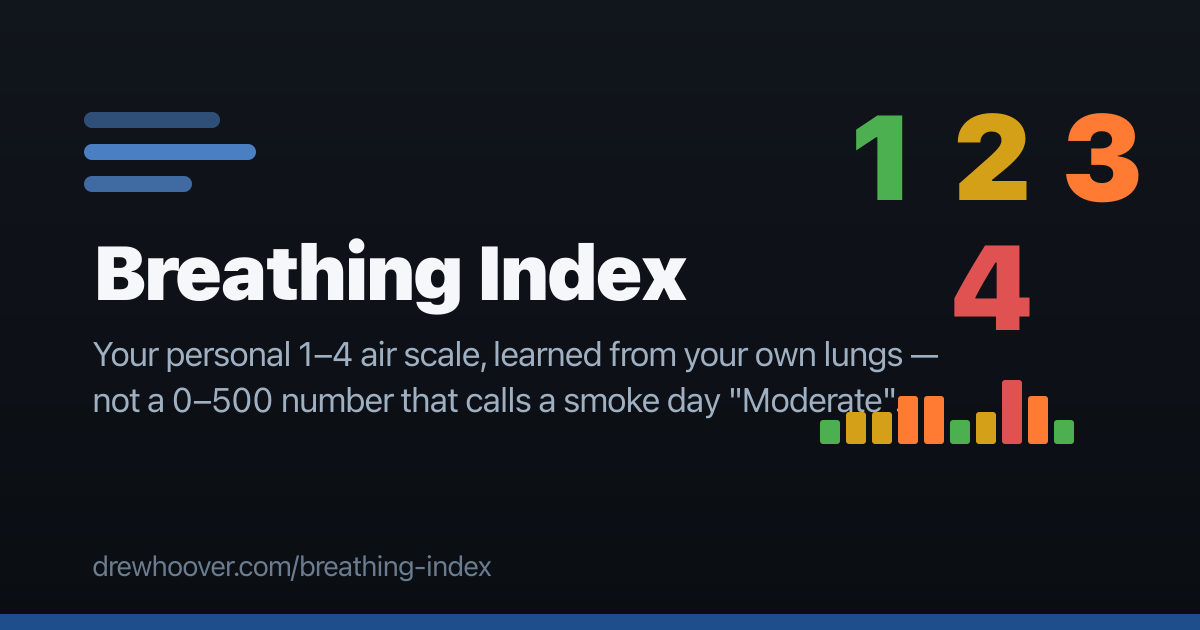
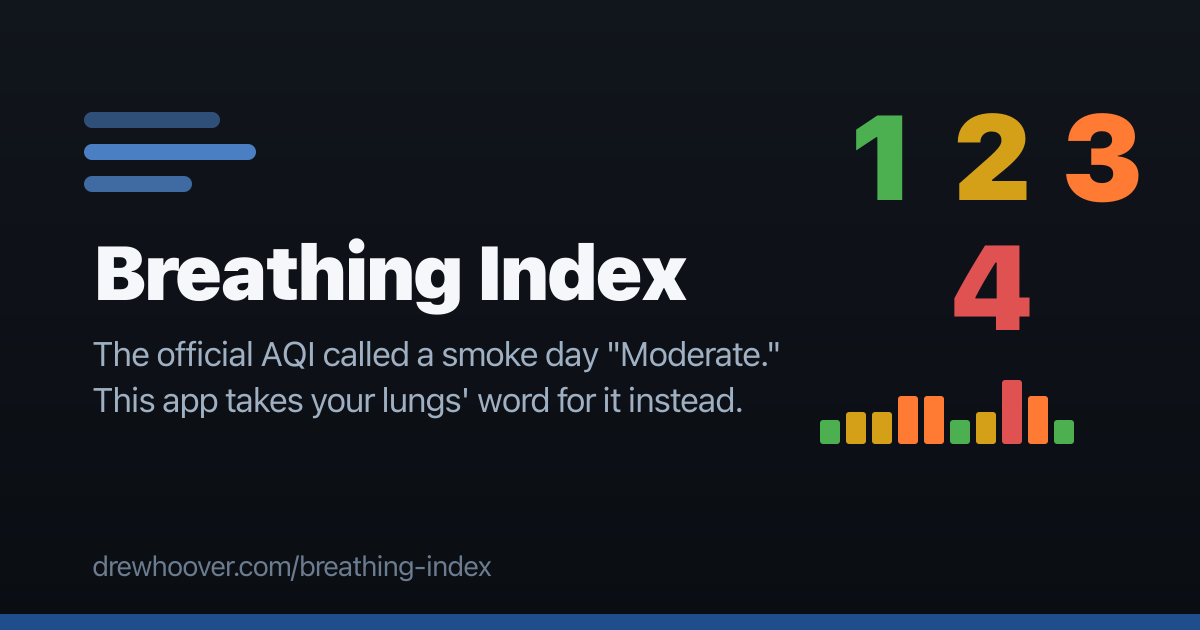
Copy pass: rewrite marketing and UI copy via copywriting subagent
Craft skills from the storytime stack (llm-writing, statistical-distance,
syntax-style, avoid-ai-writing detect). Full copy doc in docs/copy.md.

Changed region(s): [[0.0617, 0.5429, 0.7708, 0.6635]]

diff --git a/index.html b/index.html
@@ -4,10 +4,10 @@
     <meta charset="UTF-8" />
     <meta name="viewport" content="width=device-width, initial-scale=1.0, viewport-fit=cover" />
 
-    <title>Breathing Index — your personal 1–4 air scale</title>
+    <title>Breathing Index — air on a scale of 1 to Indoors</title>
     <meta
       name="description"
-      content="What's in the air, what the evidence says about how it affects you, and your 1–4 Breathing Index — ahead of time. For people whose lungs disagree with the official AQI."
+      content="The composite AQI is a max() over pollutants — it hides which one gets you. This shows them all, learns yours from your diary, and predicts your 1–4 day."
     />
     <meta name="theme-color" content="#1f4e8c" />
 
@@ -19,10 +19,10 @@
     <!-- Open Graph -->
     <meta property="og:type" content="website" />
     <meta property="og:site_name" content="Breathing Index" />
-    <meta property="og:title" content="Breathing Index — your personal 1–4 air scale" />
+    <meta property="og:title" content="Breathing Index — air on a scale of 1 to Indoors" />
     <meta
       property="og:description"
-      content="The official AQI called a smoke day 'Moderate'. This app learns from your own symptom diary which pollutants actually get you, and predicts your 1–4 day ahead of time."
+      content="The US AQI read 70, 'Moderate,' on a day I could barely breathe. This app tracks each pollutant separately, learns from your symptom diary which ones are yours, and predicts your 1–4 day in advance."
     />
     <meta property="og:url" content="https://drewhoover.com/breathing-index/" />
     <meta property="og:image" content="https://drewhoover.com/breathing-index/og.png" />
@@ -30,15 +30,15 @@
     <meta property="og:image:height" content="630" />
     <meta
       property="og:image:alt"
-      content="Breathing Index: your personal 1–4 air scale, with the four colored levels and an hourly prediction curve."
+      content="Share card for Breathing Index: the app name in large type beside the digits 1 through 4 colored green, yellow, orange, and red, above the tagline and a small bar chart of hourly air readings."
     />
 
     <!-- Twitter / X -->
     <meta name="twitter:card" content="summary_large_image" />
-    <meta name="twitter:title" content="Breathing Index — your personal 1–4 air scale" />
+    <meta name="twitter:title" content="Breathing Index — air on a scale of 1 to Indoors" />
     <meta
       name="twitter:description"
-      content="The official AQI called a smoke day 'Moderate'. This app learns from your own symptom diary which pollutants actually get you, and predicts your 1–4 day ahead of time."
+      content="The US AQI read 70, 'Moderate,' on a day I could barely breathe. This app tracks each pollutant separately, learns from your symptom diary which ones are yours, and predicts your 1–4 day in advance."
     />
     <meta name="twitter:image" content="https://drewhoover.com/breathing-index/og.png" />
 

diff --git a/src/routes/index.tsx b/src/routes/index.tsx
@@ -32,7 +32,7 @@ function Home() {
     <>
       {stale && (
         <p className="stale-banner">
-          Offline — showing air data fetched{' '}
+          Offline — this air is from{' '}
           {new Date(data.fetchedAt).toLocaleTimeString(undefined, {
             hour: 'numeric',
             minute: '2-digit',
@@ -50,7 +50,7 @@ function Home() {
       <TodayCurve data={data} model={model} />
       <MeasuredStrip lat={location.lat} lon={location.lon} />
       <Link to="/diary" className="log-cta">
-        How's breathing? Log it →
+        How's breathing? →
       </Link>
       <p className="meta-line">
         {location.label} · Open-Meteo (model) · as of{' '}
@@ -150,8 +150,9 @@ function MeasuredStrip({ lat, lon }: { lat: number; lon: number }) {
         ))}
       </div>
       <p className="hint">
-        Station measurements (AirNow, per-pollutant US AQI). When these disagree with the model
-        above, trust your nose — it's often hyper-local smoke.
+        Station measurements from AirNow, one US AQI number per pollutant. When these disagree
+        with the model above, something hyper-local is going on — usually smoke. Your nose knew
+        first.
       </p>
     </section>
   )

diff --git a/src/routes/scoreboard.tsx b/src/routes/scoreboard.tsx
@@ -15,10 +15,10 @@ function Scoreboard() {
 
   return (
     <>
-      <h1 className="section-title">The receipts</h1>
+      <h1 className="section-title">Officials vs. your lungs</h1>
       <p className="hint">
-        What the official composite indices said vs what your lungs said. The only place those
-        indices appear in this app.
+        Every day you logged, beside what the official composite indices called it. They appear on
+        this page and nowhere else in the app, where we can keep an eye on them.
       </p>
       {rows.length === 0 ? (
         <p className="hint">

diff --git a/vite.config.ts b/vite.config.ts
@@ -14,7 +14,7 @@ export default defineConfig({
         name: 'Breathing Index',
         short_name: 'Breathing',
         description:
-          "What's in the air, what the evidence says about how it affects you, and your 1–4 Breathing Index — ahead of time.",
+          'A personal air index that learns your triggers from your own symptom diary and predicts your day on a four-level scale, from 1 (Clear) to 4 (Indoors).',
         theme_color: '#1f4e8c',
         background_color: '#fafafa',
         display: 'standalone',

diff --git a/src/routes/settings.tsx b/src/routes/settings.tsx
@@ -155,8 +155,8 @@ function SettingsScreen() {
         </div>
         {message && <p className="hint">{message}</p>}
         <p className="hint">
-          Your diary lives only in this browser's storage — export it now and then. Import merges
-          by entry id.
+          Your diary lives only in this browser. Export a copy now and then — browsers forget
+          things. Import merges by entry id, so re-importing is safe.
         </p>
       </section>
     </>

diff --git a/src/routes/diary.tsx b/src/routes/diary.tsx
@@ -132,7 +132,8 @@ function Diary() {
         <h2 className="section-title">Entries ({diary.length})</h2>
         {diary.length === 0 && (
           <p className="hint">
-            No entries yet. Good days are data too — a "1" teaches the model what you tolerate.
+            No entries yet. Good days are the best data — a 1 proves you tolerated everything in
+            today's air.
           </p>
         )}
         {[...diary].reverse().map((entry) => (

diff --git a/docs/copy.md b/docs/copy.md
@@ -1,0 +1,130 @@
+# Breathing Index — replacement copy
+
+All lengths verified by character count. Constraint noted per surface.
+
+---
+
+## A. Headline surfaces
+
+### 1. HTML `<title>` (≤60 chars)
+
+1. `Breathing Index — a 1–4 air scale learned from your lungs` (57)
+2. `Breathing Index — air on a scale of 1 to Indoors` (48)
+3. `Breathing Index — air, rated by what it makes you do` (52)
+
+**Pick: option 2.** "A scale of 1 to Indoors" carries the whole thesis — personal, behavioral, top level named after what you do about it — and the mismatch of a number scale ending in a word is the joke, unsignaled.
+
+### 2. Tagline / OG-image subtitle (two lines, each ≤55 chars)
+
+Option 1:
+```
+The official AQI called a smoke day 'Moderate.'      (47)
+This app takes your lungs' word for it instead.      (47)
+```
+
+Option 2:
+```
+A four-level air scale that ends at Indoors,         (44)
+calibrated to the only lungs you've got.             (40)
+```
+
+Option 3:
+```
+Air, rated by what it makes you do:                  (35)
+anything, feel it, change the plan, stay in.         (44)
+```
+
+**Pick: option 1.** The origin story is the strongest thing the product owns, "Moderate" does the deflating on its own, and line two states the entire product in plain words with no jargon.
+
+### 3. Meta description (≤160 chars)
+
+1. `Every pollutant shown separately, marked by what your own symptom diary proves about it, and your day predicted on a scale of 1 (Clear) to 4 (Indoors).` (151)
+2. `The composite AQI is a max() over pollutants — it hides which one gets you. This shows them all, learns yours from your diary, and predicts your 1–4 day.` (153)
+3. `A personal air index for lungs the official labels weren't graded on. Learns your triggers from your symptom diary and predicts your day ahead of time.` (151)
+
+**Pick: option 2.** It names the actual defect in one clause — an engineer skimming search results gets it instantly — and the fix in the next two, with no adjectives doing the selling.
+
+---
+
+## B. Single-best surfaces
+
+### 4. OG/Twitter description (~200 chars max)
+
+> The US AQI read 70, 'Moderate,' on a day I could barely breathe. This app tracks each pollutant separately, learns from your symptom diary which ones are yours, and predicts your 1–4 day in advance. (198)
+
+### 5. PWA manifest description (one sentence)
+
+> A personal air index that learns your triggers from your own symptom diary and predicts your day on a four-level scale, from 1 (Clear) to 4 (Indoors).
+
+### 6. og:image:alt (one sentence)
+
+> Share card for Breathing Index: the app name in large type beside the digits 1 through 4 colored green, yellow, orange, and red, above the tagline and a small bar chart of hourly air readings.
+
+### 7. Project-card blurb for drewhoover.com (≤280 chars)
+
+> A personal air index, born the week the official AQI called a smoke day 'Moderate.' Shows every pollutant separately, learns which ones are yours from your symptom diary, and predicts your day on a scale of 1 (do anything) to 4 (stay inside). (242)
+
+### 8. Project-card body (2 short paragraphs, markdown)
+
+In Amsterdam, the Dutch air index read 7–8 — "insufficient" — and my asthmatic lungs worked harder than usual but worked. Back home in Hamden, Connecticut, the US AQI read 70 out of 500, "Moderate," and I couldn't finish a lap of the block. The composite AQI is a `max()` over pollutant sub-indices: it hides what's in the air, and its labels are calibrated to the average lung, which nobody has.
+
+Breathing Index goes the other way. Every exposure variable on one screen — pollutants, heat, humidity — each marked by what your own symptom diary has proven about it, and your day predicted on a four-level scale defined by behavior, from 1 (do anything) to 4 (stay inside). On a day when smoke and ozone spike together, it admits it doesn't know which one got you and waits for the diary to settle it. There's also a scoreboard comparing what officials said to what your lungs said. The officials are not doing great.
+
+---
+
+## C. In-app copy
+
+### 9. Diary empty state
+
+> No entries yet. Good days are the best data — a 1 proves you tolerated everything in today's air.
+
+### 10. Diary section heading
+
+> How's breathing right now?
+
+Kept as-is: "right now" is load-bearing (the exposure vector is captured at log time), and the question is already in the house voice.
+
+### 11. Home CTA button
+
+> How's breathing? →
+
+The question is the CTA — tapping it is answering — and it pairs with the diary heading it lands on. "Log it" was the button explaining itself.
+
+### 12. Scoreboard heading + intro
+
+Heading:
+> Officials vs. your lungs
+
+Intro:
+> Every day you logged, beside what the official composite indices called it. They appear on this page and nowhere else in the app, where we can keep an eye on them.
+
+### 13. AirNow measured-strip caption
+
+> Station measurements from AirNow, one US AQI number per pollutant. When these disagree with the model above, something hyper-local is going on — usually smoke. Your nose knew first.
+
+### 14. Settings diary-data note
+
+> Your diary lives only in this browser. Export a copy now and then — browsers forget things. Import merges by entry id, so re-importing is safe.
+
+### 15. Offline banner prefix
+
+> Offline — this air is from {time}.
+
+### 16. The four level meanings
+
+Keep all four as written:
+
+- 1 Clear — "The air isn't a factor. Do anything."
+- 2 Noticeable — "You'll feel it, but you can carry on as planned."
+- 3 Limiting — "Change the plan: shorter, slower, later, or elsewhere."
+- 4 Indoors — "Outside is unsafe for you. Stay in filtered air."
+
+These are behavioral definitions doing exact work — each one is an instruction, not a description — and every rewrite I tried traded precision for polish. They stand.
+
+---
+
+## Tells I caught and removed from my own drafts
+
+1. First tagline instinct was "Air quality that knows you" — dead statistical center; the pick keeps the emotional vector (betrayal by an official number) and moves to the specific incident instead.
+2. The "Moderate" joke initially appeared on five surfaces; a joke repeated is a slogan. It survives on two (tagline, blurb), and the scoreboard gets a different one.
+3. Early drafts averaged an em dash per sentence and three "actually"s; kept the dashes that carry a turn, cut the ones that were just breathing, kept one "actually" doing real work — then cut it too.
